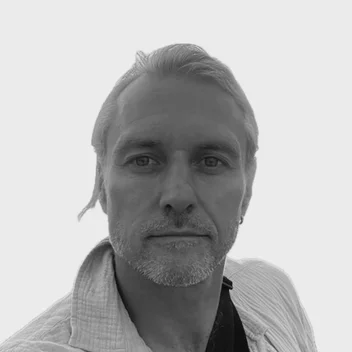
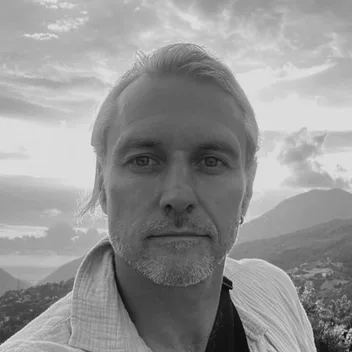
Team photos back on their original backgrounds, white keyline circles
The cutouts are dropped at Drew's request: each photo is the original,
in black and white, cropped so the faces match in size and the eyes sit
level. The circles are white with a 1px keyline on the white band.

diff --git a/src/styles/layout.css b/src/styles/layout.css
@@ -911,7 +911,7 @@ body:has(.subpage-hero) .site-header:not([data-scrolled="true"]):not(:has(.site-
 
 /* ------------------------------------------------------------- The team */
 /* 394:1894: cut top left, curve bottom right. On white since 2026-11-22
-   (Drew), not MB11's grey. Three 176 circles in the ground grey, then
+   (Drew), not MB11's grey. Three 176 white circles with a 1px keyline, then
    name, role, and bio. */
 .who-we-are {
   --pad-top: var(--space-7);
@@ -938,9 +938,10 @@ body:has(.subpage-hero) .site-header:not([data-scrolled="true"]):not(:has(.site-
   aspect-ratio: 1;
   overflow: hidden;
   border-radius: var(--radius-full);
-  /* The ground grey, the same fill the photos are cut out onto, so the
-     circles read on the white band with or without a photo. */
-  background: var(--color-bg);
+  /* White behind a missing photo, and the screenshots' 1px keyline so the
+     circle holds its edge on the white band (Drew, 2026-11-22). */
+  background: var(--color-surface);
+  border: 1px solid var(--color-image-stroke);
 }
 .team-photo {
   width: 100%;

diff --git a/CLAUDE.md b/CLAUDE.md
@@ -149,7 +149,7 @@ Build pages from these. Do not create a second button, card, or eyebrow.
 | Offer page cross-links | `RelatedOffers` (`src/components/RelatedOffers.tsx`), above the closing CTA: an `.eyebrow` label, an offer card per other live offer (Misha's 423:2428 set), icon from `public/art/offer-cards/`, title and "More" in the site blue, link stretched over the card with `aria-label` "More about …" |
 | Header offers menu | `WhatWeDoMenu` in `Header.tsx`, plain link below 860px |
 | Case study | `.case.case-grid` from `TrackRecord.tsx`: name across, screenshot left (`public/work/<base>-360.webp` and `-720.webp`, placeholder without one), meta, body, and `figure` right |
-| Team photo | Drop `andrew-johnston`, `design-principal`, or `principal-engineer` (.webp, .jpg, .png) in `src/assets/team/` and rebuild; initials or a plain circle until then. The set is grayscale cutouts on `#EBEBEB` (`--color-bg`), cropped so the face box is half the frame and the eyes sit 45% down; a new photo should match |
+| Team photo | Drop `andrew-johnston`, `design-principal`, or `principal-engineer` (.webp, .jpg, .png) in `src/assets/team/` and rebuild; initials or a plain circle until then. The set is grayscale on each photo's original background (cutouts were tried and dropped, 2026-11-22), cropped so the face box is half the frame and the eyes sit 45% down; a new photo should match |
 | Contact form | `ContactForm` (`src/components/ContactForm.tsx`) inside `Closing`, fields `.field` / `.field-label` / `.field-input`, posts to `/api/contact` |
 | Screen-reader-only text | `.sr-only` |
 | Entrance reveal | `<Reveal>` with variants from `src/lib/motion.ts`, never ad hoc Motion props |
@@ -187,7 +187,7 @@ Every page is prerendered by `scripts/prerender.mjs` into `dist/<route>.html` wi
 | `WhatWeFix.tsx` | "Bigger fixes", anchor `#what-we-do`, eyebrow and heading inside the blue band since 2026-11-17, directly after The Fix, six fixes in a 3 x 2 grid on a blue band with outlined pills whose labels name the destination ("See AI Visibility", "Ask about a rescue"); Brand system's pill goes to `#contact` while `BRAND_SYSTEM` is off. Card copy may run to a few paragraphs (`lines`); the AI Visibility and Platform Escape cards were cut from the end to fit on 2026-11-18, and the offers' `summary` (the "Other services" card line) repeats each card's words |
 | `HowWeWork.tsx` | Check, Fix, Partner `FlowRow` with ring icons, each step carrying its principle lines |
 | `LogoBand.tsx` `ExperienceStrip` | The credibility strip: four lines in blue Helvetica Light, label screen-reader only |
-| `WhoWeAre.tsx` | "Team", heading "Principals", the team intro, white band (`.band--white`, Drew, 2026-11-22, over MB11's grey), three 176px circles in the ground grey holding black and white cutouts on that same grey, faces matched in size and eye height (initials without a photo) then full name, role, bio paragraphs, all from `src/pages/team.ts`. On home and on `/about` |
+| `WhoWeAre.tsx` | "Team", heading "Principals", the team intro, white band (`.band--white`, Drew, 2026-11-22, over MB11's grey), three 176px white circles with a 1px `--color-image-stroke` keyline, black and white photos on their original backgrounds, faces matched in size and eye height (initials without a photo) then full name, role, bio paragraphs, all from `src/pages/team.ts`. On home and on `/about` |
 | `pages/AboutPage.tsx` | `/about` (Drew, 2026-11-18): `SubpageHero` named "About", h1 "About ZAC", the four "What is ZAC" paragraphs, then `WhoWeAre`. AboutPage schema with BreadcrumbList Home > About and the three Person entries, OG card `public/og/about.jpg`, in the sitemap and `llms.txt`, linked from the top bar and the footer |
 | `pages/FaqPage.tsx` | `/faq` (Drew, 2026-11-17), moved off the home page (`HomeFaq.tsx` parked in `.superseded/`): `SubpageHero` with the name "FAQ" and no icon, h1 "Questions", the 7 questions from `src/pages/faq.ts` (which also feeds its FAQPage schema), `RelatedOffers` labelled "What we do", the offers' closing CTA. BreadcrumbList Home > FAQ, OG card `public/og/faq.jpg`, in the sitemap and `llms.txt`, linked from the footer, not in the main nav |
 | `RelatedOffers.tsx` | The offer cards block on offer pages ("Other services") and `/faq`: label as an `.eyebrow` h2, card titles and "More" all in the site blue (Drew, 2026-11-17, over Misha's per-offer colours, which stay on `Offer.accent` unused) |
